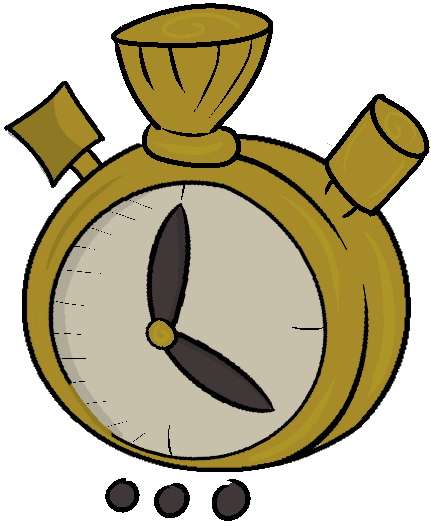
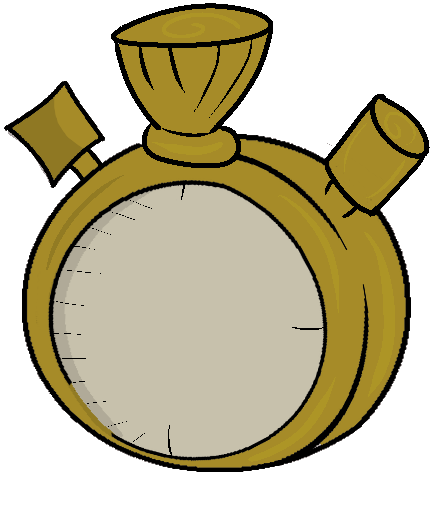
added in spinning clock hand that shows current player number

Changed region(s): [[0.3318, 0.3636, 0.6334, 0.7879], [0.2413, 0.9091, 0.4524, 1.0], [0.4826, 0.9091, 0.6032, 1.0]]

diff --git a/src/game/gameUI.js b/src/game/gameUI.js
@@ -1,5 +1,5 @@
-import React, { useRef, useEffect } from "react";
-import { Image } from "react-konva";
+import React, { useRef, useEffect, useState } from "react";
+import { Image, Group } from "react-konva";
 import useImage from "use-image";
 //magic
 import burn from "../images/magicEvents/burn.png";
@@ -9,6 +9,7 @@ import reset from "../images/magicEvents/reset.png";
 //ui
 import wood from "../images/UI/wood.png";
 import waitingImg from "../images/UI/Waiting.png";
+import waitingHandsImg from "../images/UI/WaitingHands.png";
 import yourTurnImg from "../images/UI/YourTurn.png";
 //end turn button
 import endTurn from "../images/UI/EndTurn.png";
@@ -323,36 +324,37 @@ export class FinishedMessage extends React.Component {
 
 export const Instructions = (props) => {
   let [waiting] = useImage(waitingImg);
+  let [waitingHands] = useImage(waitingHandsImg)
   let [yourTurn] = useImage(yourTurnImg);
   let currentPlayer = props.currentPlayer;
   let phase = props.phase;
   let player = props.player;
+  let numPlayers = props.numPlayers
   let x = props.x;
   let y = props.y;
   let scale = props.scale * 10;
-  const waitingRef = useRef(null);
+  const handsRef = useRef(null)
+  
+  useEffect(()=>{
+   // sethandPosition(Number(currentPlayer))
+  }, [currentPlayer])
 
-  useEffect(() => {
-    let counter;
-    const onHover = () => {
-      counter = setTimeout(() => {
-        console.log(player);
-      }, 500);
-    };
+  useEffect(()=>{
+    const rotateHand = () => {
+      handsRef.current.to({
+        rotation: (Number(currentPlayer)+1)*90,
+        duration: (Number(currentPlayer)+1)
+      })
 
-    const stopCounter = () => {
-      clearTimeout(counter);
-    };
-
-    if (waitingRef.current !== null) {
-      waitingRef.current.on("mouseover", () => onHover());
-      waitingRef.current.on("mouseout", () => stopCounter());
     }
 
-    return () => {
-      stopCounter();
-    };
-  }, [waitingRef, player]);
+    if (handsRef.current !== null) {
+      rotateHand()
+    }
+
+  }, [handsRef, currentPlayer, numPlayers])
+
+  
 
   if (phase === "StartPhase") {
     return null;
@@ -377,16 +379,40 @@ export const Instructions = (props) => {
       let width = scale * imageRatio(waiting);
       let height = scale;
       y = y - height / 2;
+
+      let widthHands  = scale/4 * imageRatio(waitingHands)
+      let heightHands = scale/4
+      let xoffset = 2*widthHands/5
+      let yoffset = 9*heightHands/10
+      let xHands= x + width/2 -xoffset
+      let yHands = y  + height/2 +yoffset/2
+
       return (
-        <Image
-          ref={waitingRef}
-          image={waiting}
-          x={x}
-          y={y}
-          width={width}
-          height={height}
-          shadowBlur={props.shadowBlur}
-        />
+        <Group>
+          <Image
+            image={waiting}
+            x={x}
+            y={y}
+            width={width}
+            height={height}
+            shadowBlur={props.shadowBlur}
+          />
+          <Image
+            ref={handsRef}
+            image={waitingHands}
+            x={xHands}
+            y={yHands}
+            width={widthHands}
+            height={heightHands}
+            rotation={0}
+            offset={{
+              x: xoffset,
+              y: yoffset
+            }}
+            shadowBlur={props.shadowBlur}
+          />
+      </Group>
+        
       );
     }
   } else {

diff --git a/src/game/Table.js b/src/game/Table.js
@@ -507,6 +507,7 @@ export class SHEDtable extends React.Component {
             currentPlayer={currentPlayer}
             phase={phase}
             player={player}
+            numPlayers={this.props.ctx.numPlayers}
             scale={this.state.cardScale}
             x={x}
             y={y}
@@ -757,6 +758,7 @@ export class SHEDtable extends React.Component {
                             </Layer>
                         </Stage>
                     </div>
+                    <div id ="table"/>
                 </div>
             );
          };

diff --git a/src/pages/Style.css b/src/pages/Style.css
@@ -137,6 +137,23 @@
     font-family: Carn;
   }
 
+#table {
+  position: absolute;
+  top: 50%;
+  left: 50%;
+  transform: translate(-49.5%, -52.5%);
+  width: 75vh;
+  height: 75vh;
+  z-index: -1;
+  display: flex;
+  justify-content: center;
+  align-items: center;
+  background-color: rgb(78, 29, 0); /* Black background with opacity */
+  box-shadow: 0 25px 40px 2px rgba(0, 0, 0, 0.3);
+  border-radius: 25px;
+}
+
+
 #EndGameChoice { 
   position: relative;
   bottom: 0%;

diff --git a/src/config.js b/src/config.js
@@ -1,3 +1,3 @@
 export const DEFAULT_PORT = 8000;
 export const APP_PRODUCTION = process.env.NODE_ENV === "production";
-export const DEBUGING_UI = true && !APP_PRODUCTION
+export const DEBUGING_UI = false && !APP_PRODUCTION
